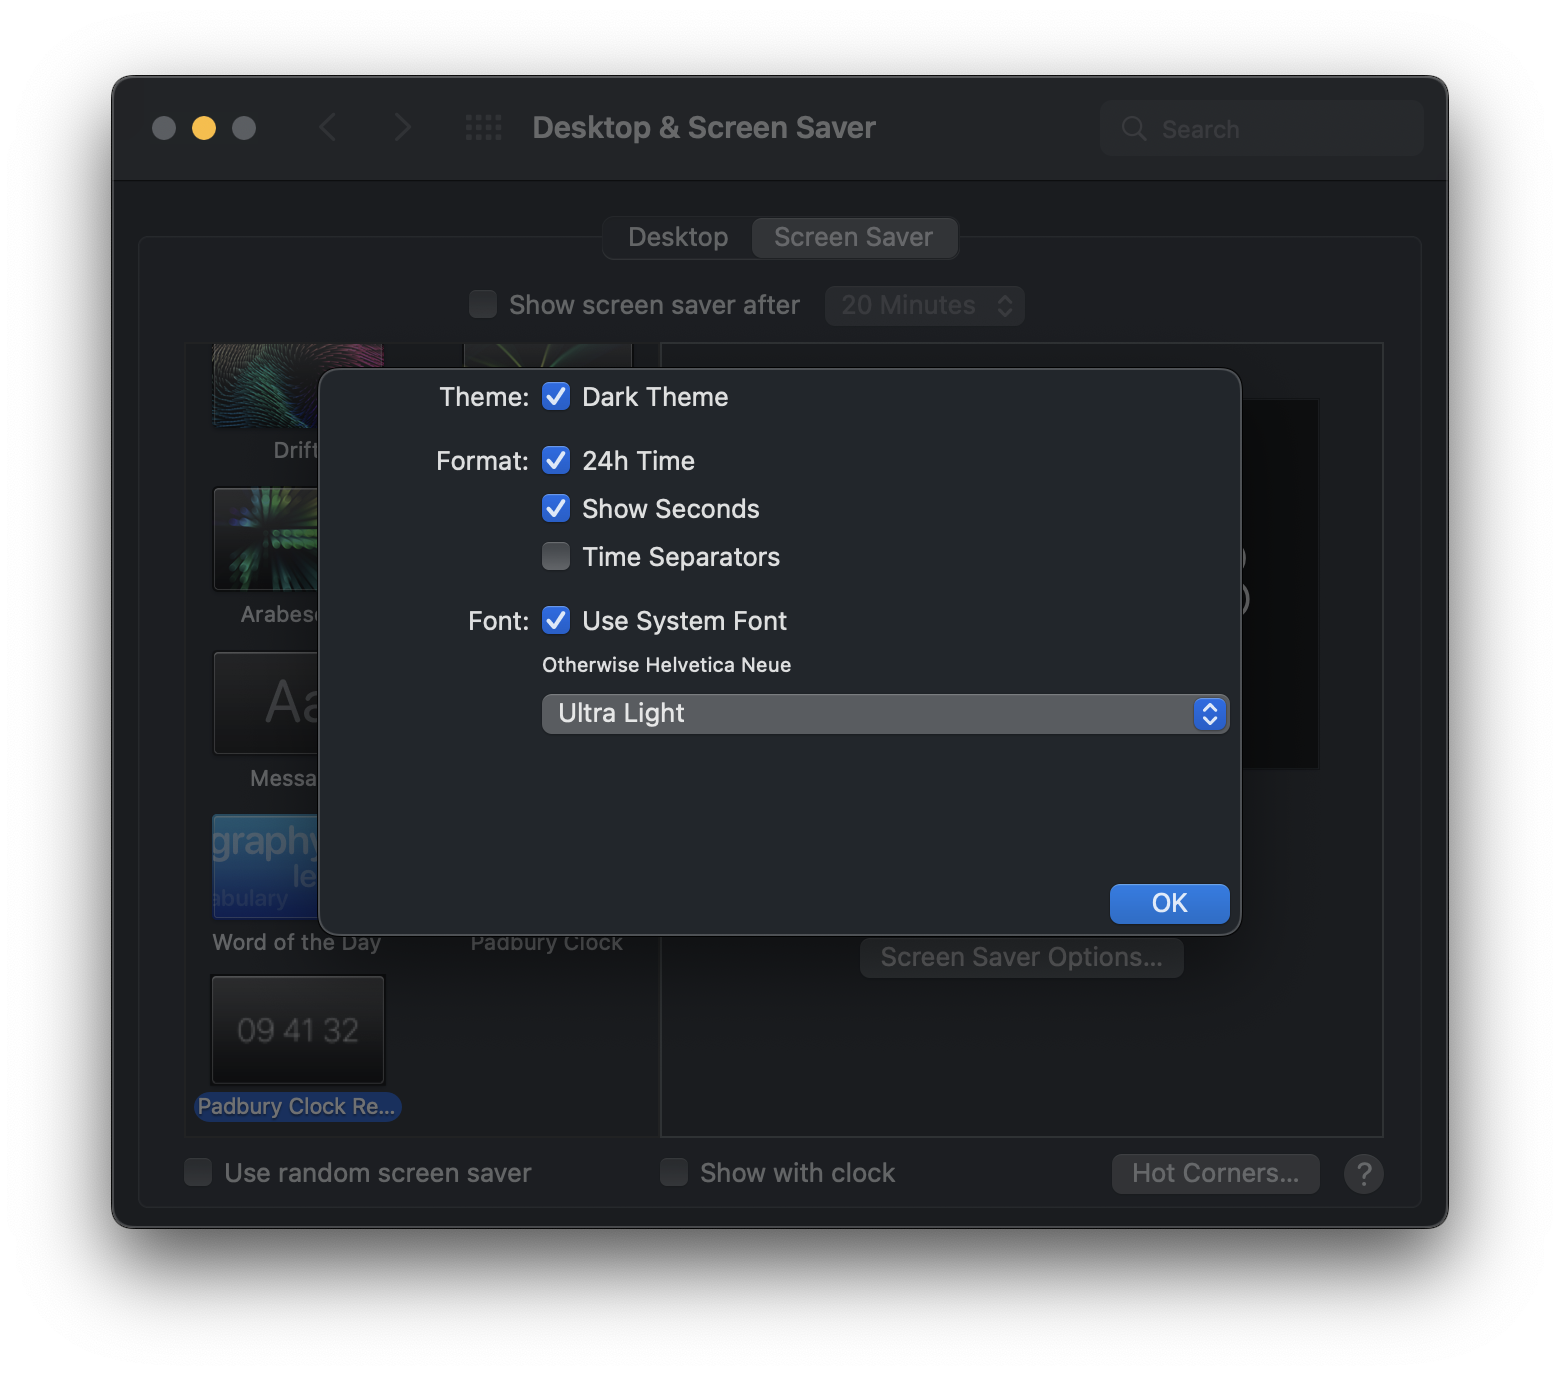
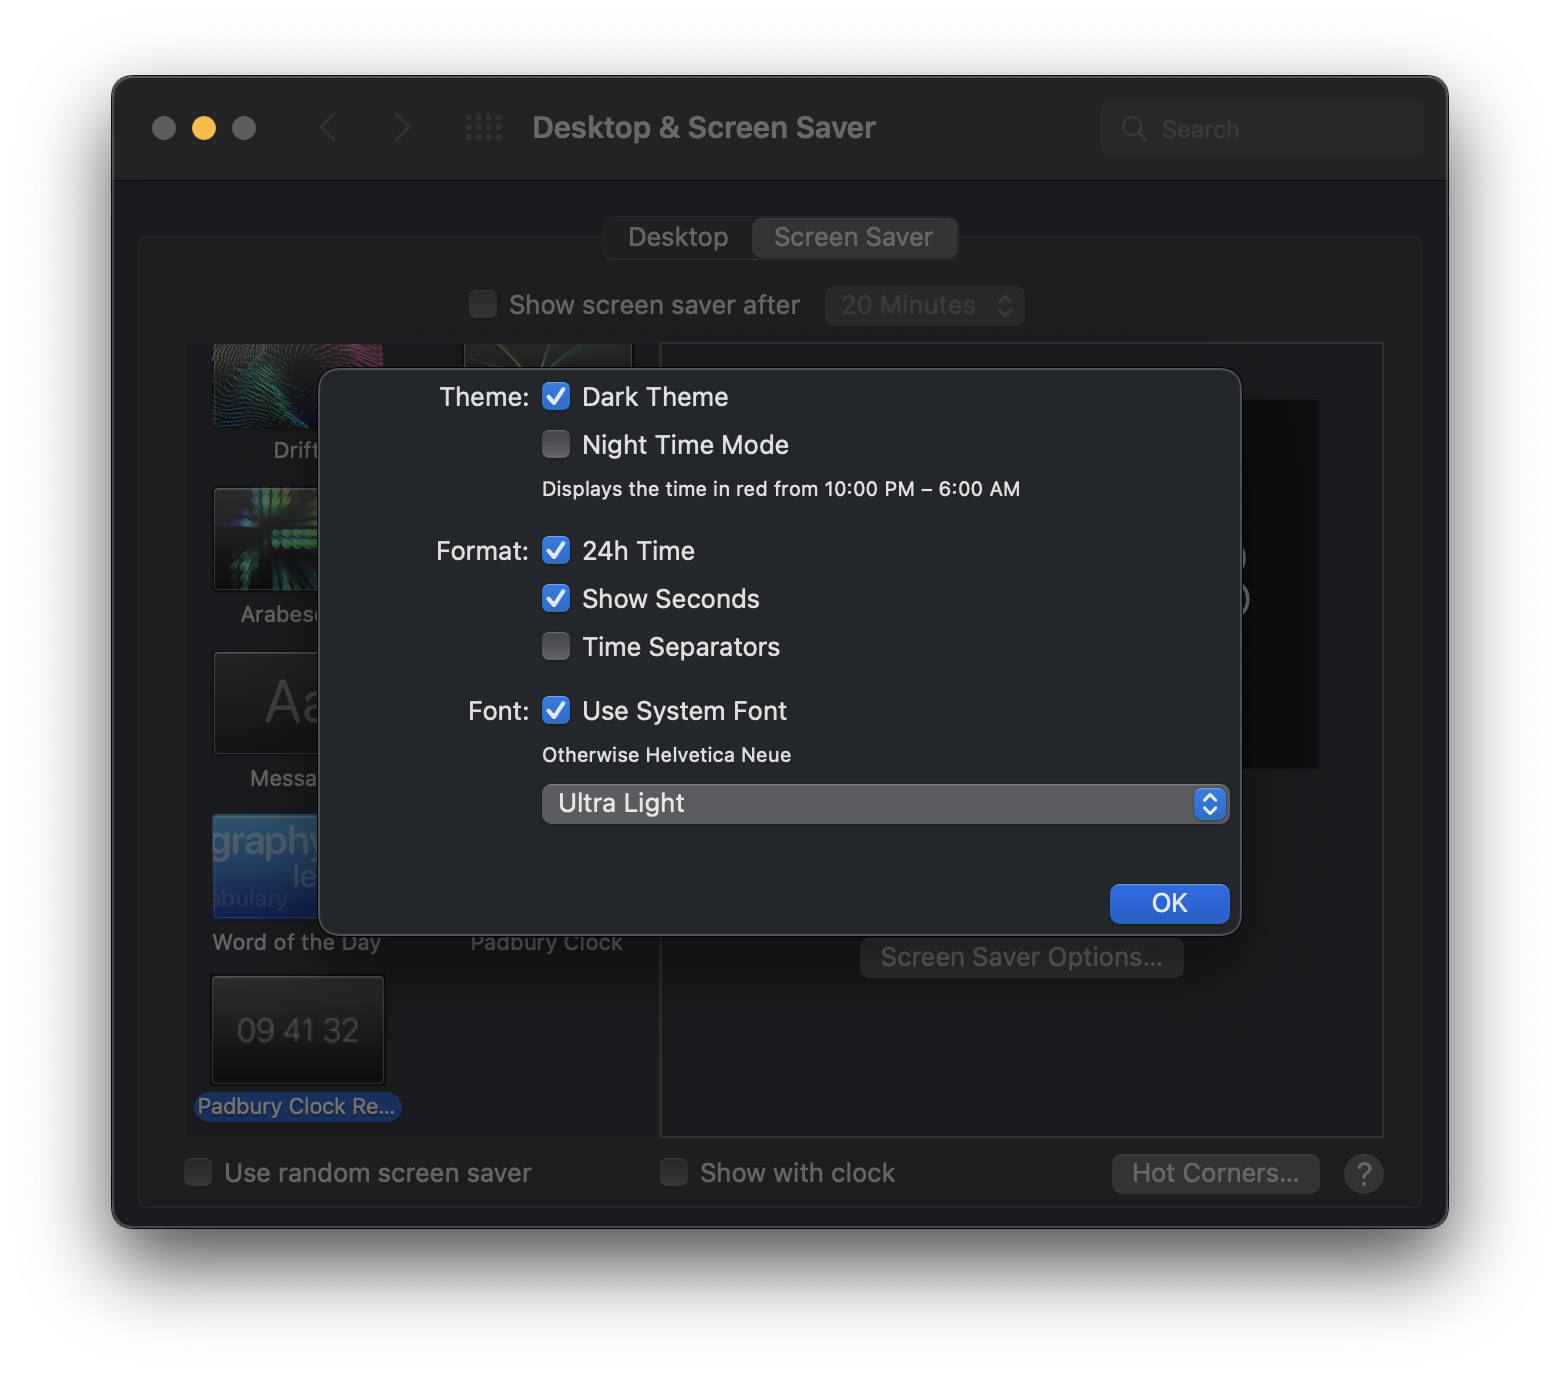
added night time mode

Changed region(s): [[0.2769, 0.3125, 0.8, 0.625], [0.6154, 0.3438, 0.6462, 0.375]]

diff --git a/Padbury Clock Revived/ConfigureSheetController.swift b/Padbury Clock Revived/ConfigureSheetController.swift
@@ -13,6 +13,7 @@ class ConfigureSheetController: NSObject {
     @IBOutlet var window: NSWindow?
     
     @IBOutlet var darkThemeCheckbox: NSButton!
+    @IBOutlet var nightTimeModeCheckbox: NSButton!
     @IBOutlet var twentyfourHoursCheckbox: NSButton!
     @IBOutlet var showSecondsCheckbox: NSButton!
     @IBOutlet var showTimeSeparatorsCheckbox: NSButton!
@@ -33,6 +34,7 @@ class ConfigureSheetController: NSObject {
     func setup() {
         if let preferences = Preferences.shared {
             darkThemeCheckbox.state = preferences.darkTheme ? .on : .off
+            nightTimeModeCheckbox.state = preferences.nightTimeMode ? .on : .off
             twentyfourHoursCheckbox.state = preferences.useAmPm ? .off : .on
             showSecondsCheckbox.state = preferences.showSeconds ? .on : .off
             showTimeSeparatorsCheckbox.state = preferences.showTimeSeparators ? .on : .off
@@ -54,6 +56,7 @@ class ConfigureSheetController: NSObject {
     @IBAction func toggledCheckbox(_ sender: NSObject) {
         if let preferences = Preferences.shared {
             preferences.darkTheme = darkThemeCheckbox.state == .on
+            preferences.nightTimeMode = nightTimeModeCheckbox.state == .on
             preferences.useAmPm = twentyfourHoursCheckbox.state == .off
             preferences.showSeconds = showSecondsCheckbox.state == .on
             preferences.showTimeSeparators = showTimeSeparatorsCheckbox.state == .on

diff --git a/Padbury Clock Revived/ClockView.swift b/Padbury Clock Revived/ClockView.swift
@@ -31,8 +31,8 @@ final class ClockView: ScreenSaverView {
     var fontSize: CGFloat = 0
     var vOffset: CGFloat = 0
     
-    var backgroundColor: NSColor = .red
-    var foregroundColor: NSColor = .red
+    var backgroundColor: NSColor = .blue
+    var foregroundColor: NSColor = .blue
     
     var dateFormatter: DateFormatter = DateFormatter()
     var attributes: [NSAttributedString.Key: Any] = [:]
@@ -41,12 +41,15 @@ final class ClockView: ScreenSaverView {
         if force || !hasSetup {
             hasSetup = true
             
+            let currentHour = Calendar.current.component(.hour, from: Date())
+            let useNightTimeMode = preferences.nightTimeMode && (currentHour >= (10 + 12) || currentHour < 6)
+            
             if preferences.darkTheme {
                 backgroundColor = .black
-                foregroundColor = .white
+                foregroundColor = useNightTimeMode ? NSColor(red: 2.0 / 3.0, green: 0, blue: 0, alpha: 1) : .white
             } else {
                 backgroundColor = .white
-                foregroundColor = .black
+                foregroundColor = useNightTimeMode ? .red : .black
             }
             
             let separator = preferences.showTimeSeparators ? ":" : " "

diff --git a/Padbury Clock Revived/Preferences.swift b/Padbury Clock Revived/Preferences.swift
@@ -35,6 +35,14 @@ class Preferences: NSObject {
             defaults.synchronize()
         }
     }
+    
+    var nightTimeMode: Bool {
+        get { return (defaults.value(forKey: "NightTimeMode") as? Bool) ?? false }
+        set {
+            defaults.setValue(newValue, forKey: "NightTimeMode")
+            defaults.synchronize()
+        }
+    }
 
     var useAmPm: Bool {
         get { return !((defaults.value(forKey: "24h") as? Bool) ?? true) }

diff --git a/README.md b/README.md
@@ -6,9 +6,10 @@ The [Padbury Clock](https://padbury.app) is a minimalist screensaver created by 
 It has not been updated in ages and actually broke for me during the Big Sur beta cycle (although that issue resolved itself).
 At that point I decided to recreate it.
 
-This new version retains most of the settings from the original (if you require the red mode feel free to add a pull request) and ads a new font family and font weight selection system.
+This new version retains most of the settings from the original (if you require the single monitor setting feel free to add a pull request) and ads a new font family and font weight selection system.
 The original screensaver used Helvetia Neue Ultra Light.
 With the new version you will also be able to select San Francisco, Apple's new system font as the font used.
+The night time mode from the original is also supported.
 
 <img src="screenshots/screenshot-1.png" width=50%><img src="screenshots/screenshot-2.png" width=50%>
 
@@ -21,6 +22,7 @@ Download [the latest version](https://github.com/Kamik423/Padbury-Clock-Revived/
 
 ### 1.0.2 (2022-02-10)
 
+* Added night time mode
 * Fixed settings not saving correctly
 
 ### 1.0.1 (2022-02-09)
